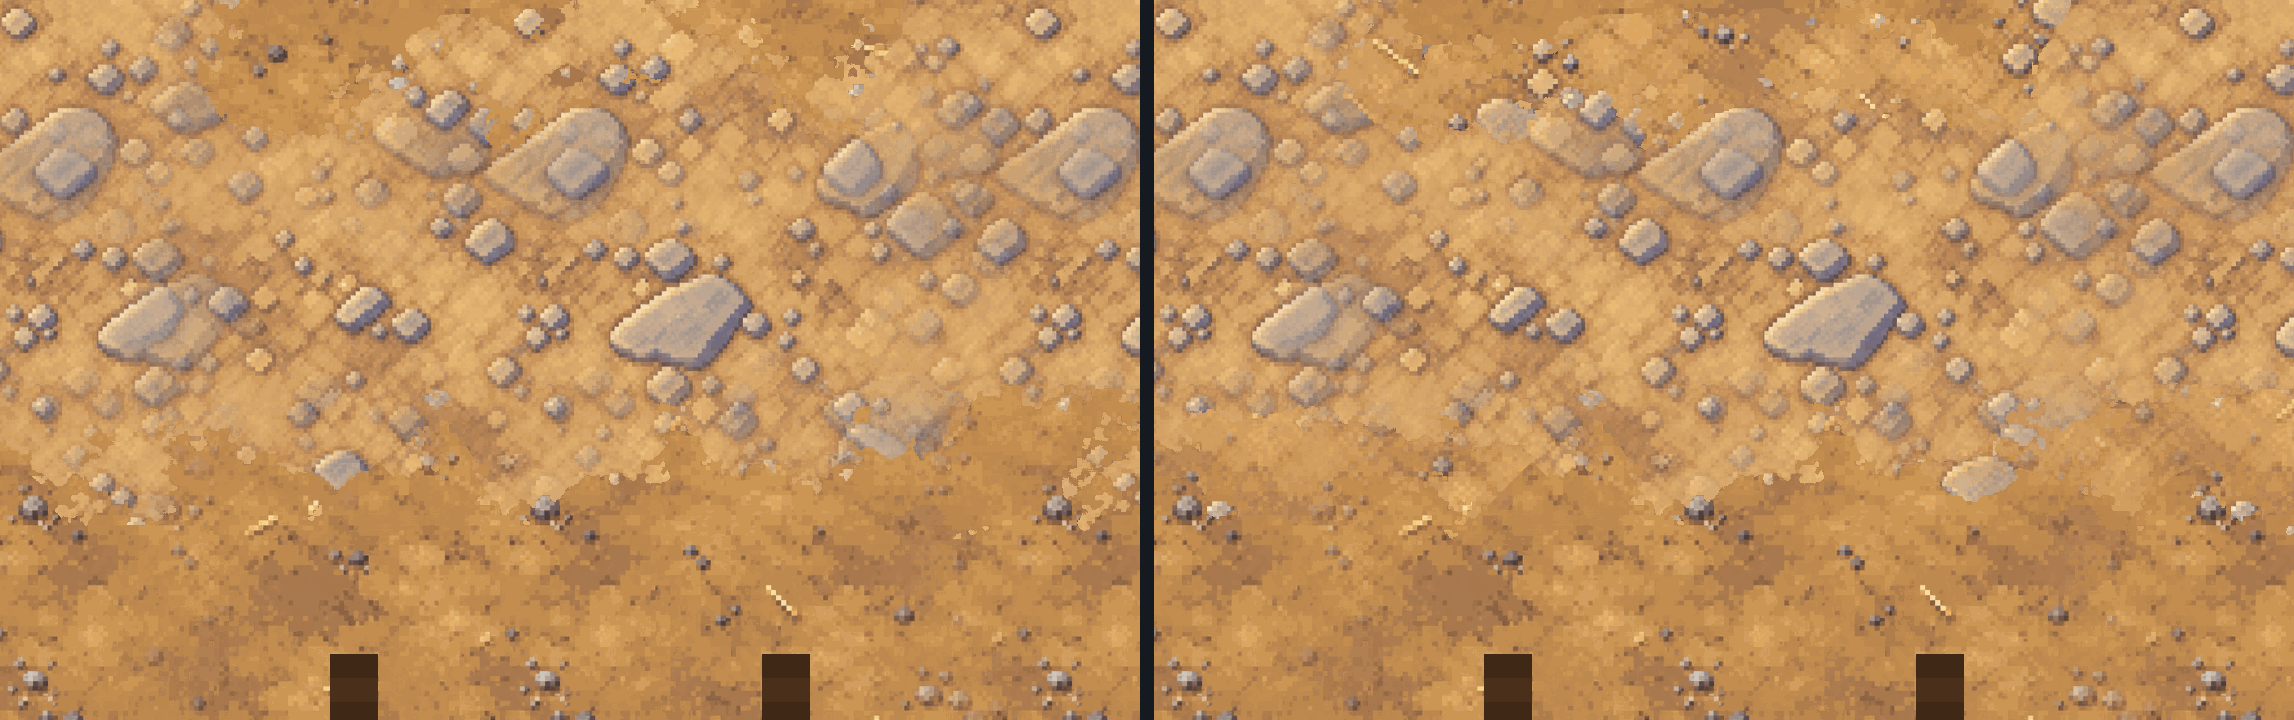
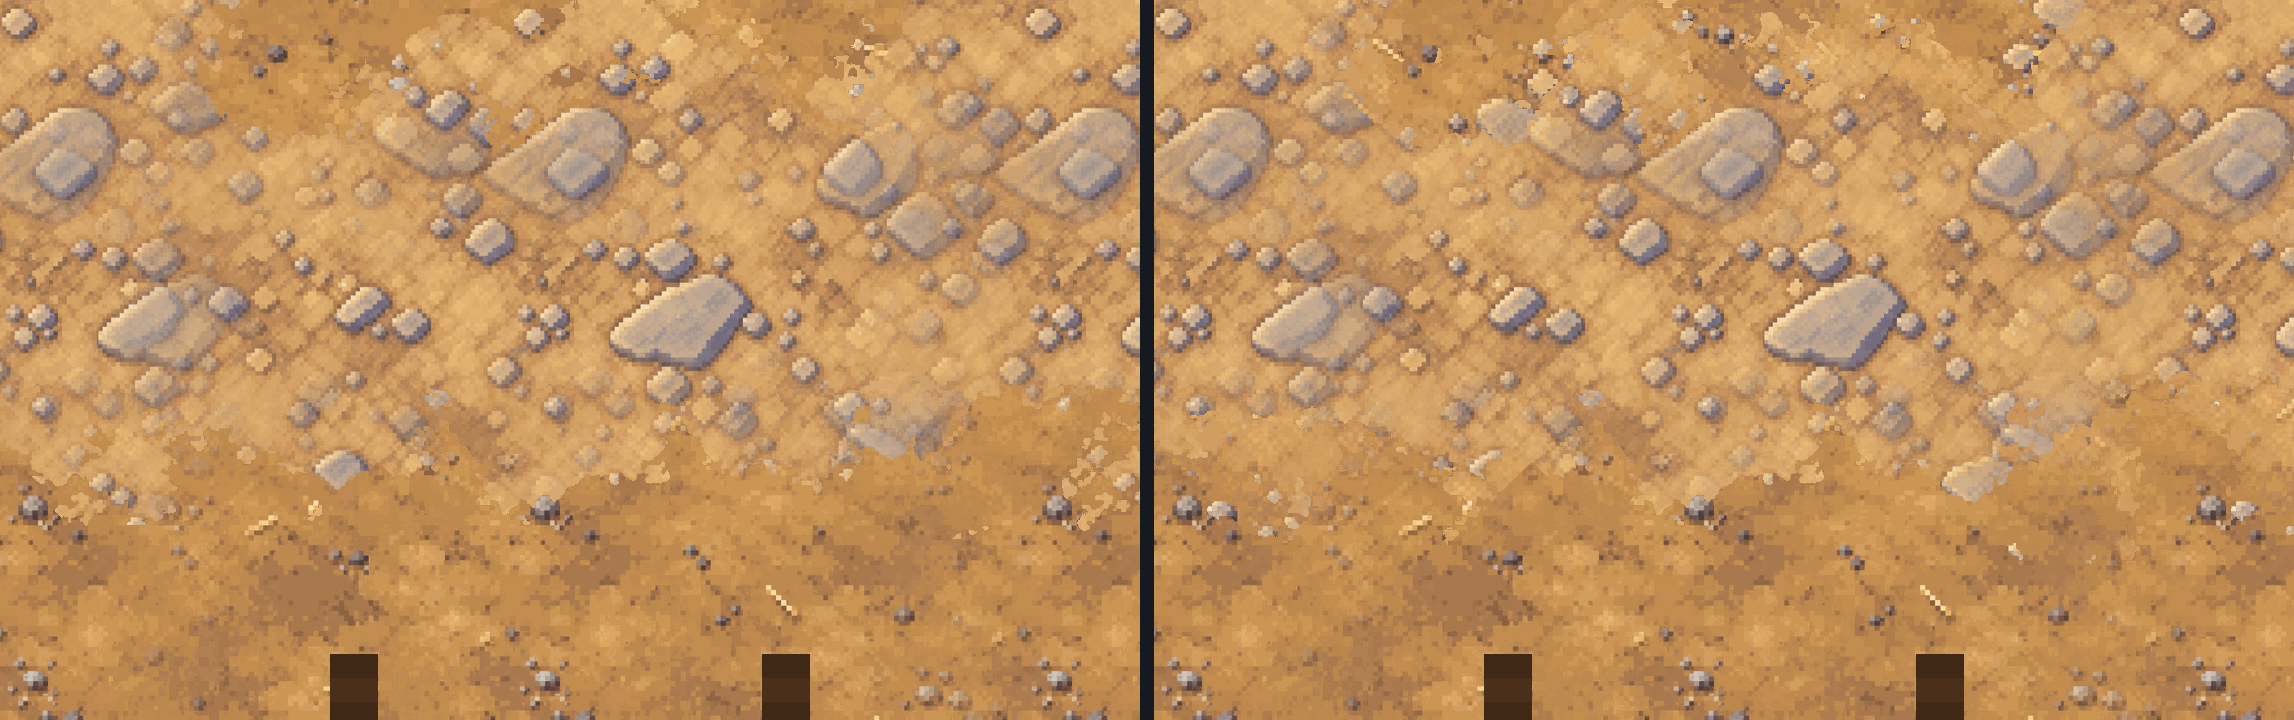
Blends turn in along ragged edges, not straight ones (v2.3.2952)
Owner, on the first preview: "Why does the top part of that patch look
correctly blended but not the bottom? I can see its edge ... Bottom looks
like it has a noticeable straight edge where it transitions."

The blend's two changes (upper -> blend, blend -> lower) each had half the
zone, on a ramp twice as steep as a plain mix's, so the patches moved each
change half as far, and where they would have moved it further the zone's
end stopped it: along the bottom of the Town Hall's plot the yards turned
into the blend beside the plan's straight cell edge. (The two changes also
swapped over at the line itself, a jump wherever the patches were strong.)

- ground.js: each change is now a whole plain mix, BLEND_OFF (0.4 of a
  zone) either side of the line, with the blend between; the zone of a
  pair with a blend is 1.4x wider (reachT, and the working margin when a
  blend is given); both changes judged everywhere, so nothing jumps.
  Heights at BLEND_HEIGHTS 0.45: at a plain mix's 0.7 nothing could be
  settled a whole art px at a time and a town piece took half as long
  again (6 pieces late in the trial); at 0.45 about a fifth longer.
- heightAt reads its five texels without making a function per call and
  wraps power-of-two pictures with a mask: the same answers to the bit.
- A test: at the bottom of the Town Hall's plot the yards' end wanders
  11 game px (a plain mix 12.6, v2.3.2951 6.8) and is straight for at
[…]

diff --git a/public/tools/world/core/ground.js b/public/tools/world/core/ground.js
@@ -204,11 +204,37 @@ const MIX_FAMILY = { earth: 1, sand: 1, ash: 1 };
    out to nothing at the zone's two sides -- in the same big patches, their
    rims shaped by all three pictures; every pixel is still one of the
    three.  Optional per pair: a pair without one mixes as before, to the
-   byte.  Measured on the owner's own pictures (desktop Chromium, laid the
-   way the game's worker lays them): a piece of town ground takes about
-   24 ms with or without it; a blend unpacked is 1 MB, only while you are
-   near its pair.  The cost is the pictures: 42 pairs of alike grounds
-   touch on the Wheel. */
+   byte.  A blend unpacked is 1 MB, only while you are near its pair; a
+   piece of ground its zone reaches takes about a fifth longer to lay
+   (v2.3.2952, below).  The cost that counts is the pictures: 42 pairs of
+   alike grounds touch on the Wheel. */
+/* v2.3.2952: the owner, on the first preview: "Why does the top part of
+   that patch look correctly blended but not the bottom? I can see its edge
+   … Bottom looks like it has a noticeable straight edge where it
+   transitions."  The blend's two changes (upper -> blend, blend -> lower)
+   each had HALF the zone, on a ramp twice as steep as a plain mix's: the
+   patches and the pictures' heights moved each change half as far, and
+   where they would have moved it further the zone's end stopped it -- so
+   along a stretch where the big patches were flat, the yards turned into
+   the blend along a line running beside the plan's straight cell edge.
+   (And the two changes swapped over at the line itself, a jump wherever
+   the patches were strong.)  Now each change is a whole plain mix -- the
+   same ramp, patches and room as any MIX edge -- set BLEND_OFF of a zone
+   either side of the line, with the blend between them: the zone of a pair
+   with a blend is that much wider (1 + BLEND_OFF), and the two changes
+   wander about as far as a plain mix's.  Measured at the owner's spot, on
+   stand-ins (tools/world/test-world-core.mjs): where the yards end wanders
+   11 game px against a plain mix's 12.6 (it was 6.8), and its straightest
+   stretch is 17 game px against a plain mix's 33 (it was 30).
+   The pictures' heights count a little less than at a plain mix's edge
+   (BLEND_HEIGHTS, not MIX_HEIGHTS' 0.7): at 0.7 hardly a pixel of the
+   wider zone could be settled an art px at a time and a town piece took
+   half as long again to lay; at 0.45 it takes about a fifth longer than
+   before, and the changes are as ragged. */
+const BLEND_OFF = 0.4;
+const BLEND_HEIGHTS = 0.45;
+/* the most a blend's zone reaches, in game px, for the margins below */
+const EDGE_MAX_BLEND_GAME = 2 + 1.35 * (1 + BLEND_OFF) * Math.max(...Object.values(MIX));
 export const BLEND_SEP = '__';
 /* one key for a pair of swatches, whichever way round they are named */
 export function blendKey(a, b) { return a < b ? `${a}${BLEND_SEP}${b}` : `${b}${BLEND_SEP}${a}`; }
@@ -794,6 +820,11 @@ function composeFine(plan, bp, mm, rect, tiles, opts, K) {
      can reach the worked-out area must lie in it) */
   const anyPieces = !!tiles && Object.values(tiles).some((t) => t && t.E);
   let EA = Math.max(Math.ceil(EDGE_MAX_GAME / GPA), anyPieces ? Math.ceil((EDGE_BIT + 1 + EDGE_PIECE_MAX / 2) / K) : 0) + 2;
+  /* (v2.3.2952: and a blend's wider zone, when one is given -- every piece
+     it can reach is, blendsUnder's margin being wider still) */
+  const blends = opts.blends || null;
+  const tileOfKey = (k) => { const t = blends ? (typeof blends.get === 'function' ? blends.get(k) : blends[k]) : null; return t && t.w ? t : null; };
+  if (blends && (typeof blends.keys === 'function' ? [...blends.keys()] : Object.keys(blends)).some(tileOfKey)) EA = Math.max(EA, Math.ceil(EDGE_MAX_BLEND_GAME / GPA) + 2);
   /* ...but only where an edge can be: most rectangles lie inside one ground
      or along crisp edges only, and need no more than the old margin */
   if (!edgesNear(bp, mm, X0 - E2 - EA, Y0 - E2 - EA, RW + 2 * (E2 + EA), RH + 2 * (E2 + EA), M)) EA = 0;
@@ -894,7 +925,7 @@ function composeFine(plan, bp, mm, rect, tiles, opts, K) {
       if (!r) continue;
       /* how far from `b` (thirds of an art px) this edge can still reach */
       const reachT = Math.ceil(((1.5 * r.reach + 1.35 * r.ragged) / GPA + 1.5) * 3);
-      const rr = { ...r, upQ: cat[a].id === r.up ? a : b, loQ: cat[a].id === r.up ? b : a, reachT, bl: -1 };
+      const rr = { ...r, upQ: cat[a].id === r.up ? a : b, loQ: cat[a].id === r.up ? b : a, reachT, bl: -1, lim: 1 };
       recipes.set(a * 256 + b, rr);
       recOf[a * NQ + b] = rr;
       list.push(b);
@@ -906,9 +937,7 @@ function composeFine(plan, bp, mm, rect, tiles, opts, K) {
      crumbs of it either -- numbered in the order of the pairs' keys, so two
      blends compare the same way in every chunk whatever else it holds. */
   const BL0 = NQ, blendTiles = [], blendLo = [], blendKeys = [];
-  const blends = opts.blends || null;
   if (blends) {
-    const tileOfKey = (k) => { const t = typeof blends.get === 'function' ? blends.get(k) : blends[k]; return t && t.w ? t : null; };
     const want = new Set();
     for (const rr of recipes.values()) if (rr.mix && tileOfKey(blendKey(cat[rr.upQ].id, cat[rr.loQ].id))) want.add(blendKey(cat[rr.upQ].id, cat[rr.loQ].id));
     for (const k of [...want].sort()) {
@@ -919,7 +948,12 @@ function composeFine(plan, bp, mm, rect, tiles, opts, K) {
     for (const rr of recipes.values()) {
       if (!rr.mix) continue;
       const n = blendKeys.indexOf(blendKey(cat[rr.upQ].id, cat[rr.loQ].id));
-      if (n >= 0) { rr.bl = BL0 + n; blendLo[n] = rr.loQ; }
+      if (n >= 0) {
+        rr.bl = BL0 + n; blendLo[n] = rr.loQ;
+        /* (v2.3.2952: its zone reaches 1 + BLEND_OFF of a plain mix's) */
+        rr.lim = 1 + BLEND_OFF;
+        rr.reachT = Math.ceil(((1.5 * rr.reach + 1.35 * rr.ragged * rr.lim) / GPA + 1.5) * 3);
+      }
     }
   }
   for (const list of partners.values()) for (const b of list) if (!dts.has(b)) { const D = chamfer34(pmat, PW, PH, b); dts.set(b, D); dtOf[b] = D; }
@@ -1038,7 +1072,7 @@ function composeFine(plan, bp, mm, rect, tiles, opts, K) {
         const dist = Math.max(0, d0 / 3 - 0.5) * GPA, s = a === r.loQ ? dist : -dist;
         const E = r.ragged * pVar[2 * p + 1], t = (s - r.reach * pVar[2 * p]) / E;
         const slack = (0.75 * GPA + 0.1) / E;
-        e = t - slack >= 1 ? r.loQ : t + slack <= -1 ? r.upQ : -1;
+        e = t - slack >= r.lim ? r.loQ : t + slack <= -r.lim ? r.upQ : -1;
         /* in the band, the patches may decide it for the whole art px: the
            pictures' part (0.7 x their heights' difference) is never more
            than 0.7 either way, and every pixel's patch lies between the
@@ -1052,19 +1086,16 @@ function composeFine(plan, bp, mm, rect, tiles, opts, K) {
             if (v < lo) lo = v;
             if (v > hi) hi = v;
           }
-          const hw = r.mix ? MIX_HEIGHTS : 0.7;
-          /* v2.3.2951: with a blend, the zone's two halves each decide
-             between two pictures, on the half's own ramp (edgeAt): the
-             upper or the blend where t < 0, the blend or the lower after */
+          const hw = r.bl >= 0 ? BLEND_HEIGHTS : r.mix ? MIX_HEIGHTS : 0.7;
+          /* v2.3.2952: with a blend (edgeAt), the upper ground where even
+             the lowest patch and heights clear its change (at t + BLEND_OFF);
+             the lower where even the highest fall short of its change (at
+             t - BLEND_OFF); the blend where neither change can be reached */
           if (r.bl >= 0) {
-            const tl = t - slack, th = t + slack;
-            if (th < 0) {
-              if (lo - (2 * th + 1) > hw) e = r.upQ;
-              else if (hi - (2 * tl + 1) <= -hw) e = r.bl;
-            } else if (tl >= 0) {
-              if (lo - (2 * th - 1) > hw) e = r.bl;
-              else if (hi - (2 * tl - 1) <= -hw) e = r.loQ;
-            } else if (hi - (2 * tl + 1) <= -hw && lo - (2 * th - 1) > hw) e = r.bl;
+            const C = BLEND_OFF;
+            if (lo - (t + slack + C) > hw) e = r.upQ;
+            else if (hi - (t - slack - C) <= -hw) e = r.loQ;
+            else if (hi - (t - slack + C) <= -hw && lo - (t + slack - C) > hw) e = r.bl;
           } else if (lo - (t + slack) > hw) e = r.upQ;
           else if (hi - (t - slack) <= -hw) e = r.loQ;
         }
@@ -1098,8 +1129,8 @@ function composeFine(plan, bp, mm, rect, tiles, opts, K) {
     /* the reach and the band vary along the edge, so it wanders */
     if (pB[p] < 0) slow(p);
     const t = (s - r.reach * pVar[2 * p]) / (r.ragged * pVar[2 * p + 1]);
-    if (t <= -1) return up;
-    if (t >= 1) return lo;
+    if (t <= -r.lim) return up;
+    if (t >= r.lim) return lo;
     /* patches a few game px across, so the upper ground comes in islands
        and the lower shows through in bays, thinning out across the band */
     let patch = 0.6 * ((patchAt(q00) * (1 - ux) + patchAt(q00 + 1) * ux) * (1 - uy) + (patchAt(q00 + PW) * (1 - ux) + patchAt(q00 + PW + 1) * ux) * uy);
@@ -1108,24 +1139,28 @@ function composeFine(plan, bp, mm, rect, tiles, opts, K) {
     if (r.mix) patch = 0.3 * patch + ((mixAt(q00) * (1 - ux) + mixAt(q00 + 1) * ux) * (1 - uy) + (mixAt(q00 + PW) * (1 - ux) + mixAt(q00 + PW + 1) * ux) * uy);
     /* (the pictures' part is hw x a difference of two heights in 0..1:
        where the patch alone clears it, it cannot change the answer) */
-    const hw = r.mix ? MIX_HEIGHTS : 0.7;
-    /* v2.3.2951: a pair with a BLEND picture: the zone's upper half goes
-       from the upper ground to the blend, its lower half from the blend to
-       the lower ground, each on its own ramp (2t + 1, 2t - 1) with the same
-       patches and the two pictures' heights -- so the blend is most at the
-       line and none is left at the zone's sides */
+    const hw = r.bl >= 0 ? BLEND_HEIGHTS : r.mix ? MIX_HEIGHTS : 0.7;
+    /* v2.3.2951: a pair with a BLEND picture: the zone goes from the upper
+       ground, through the blend, to the lower one.  v2.3.2952: as two whole
+       plain mixes, BLEND_OFF either side of the line, each with a plain
+       mix's ramp and patches (and the heights at BLEND_HEIGHTS): the upper
+       ground where the patch and the heights (upper against blend) clear
+       t + BLEND_OFF; else the lower where they (blend against lower) fall
+       to t - BLEND_OFF; else the blend.  Both changes are judged
+       everywhere, so nothing jumps at the line, and each wanders about as
+       far as a plain mix's. */
     if (r.bl >= 0) {
-      const bt = blendTiles[r.bl - BL0], useB = pB[p] === 1;
-      if (t < 0) {
-        const t1 = 2 * t + 1;
-        if (patch - t1 > hw) return up;
-        if (patch - t1 <= -hw) return r.bl;
-        return hw * (heightAt(tileFor(up, useB), up, aox, aoy, seed) - heightAt(bt, r.bl, aox, aoy, seed)) + patch > t1 ? up : r.bl;
+      const bt = blendTiles[r.bl - BL0], useB = pB[p] === 1, tu = t + BLEND_OFF, tl = t - BLEND_OFF;
+      let hb = -1;
+      if (patch - tu > hw) return up;
+      if (patch - tu > -hw) {
+        hb = heightAt(bt, r.bl, aox, aoy, seed);
+        if (hw * (heightAt(tileFor(up, useB), up, aox, aoy, seed) - hb) + patch > tu) return up;
       }
-      const t2 = 2 * t - 1;
-      if (patch - t2 > hw) return r.bl;
-      if (patch - t2 <= -hw) return lo;
-      return hw * (heightAt(bt, r.bl, aox, aoy, seed) - heightAt(tileFor(lo, useB), lo, aox, aoy, seed)) + patch > t2 ? r.bl : lo;
+      if (patch - tl <= -hw) return lo;
+      if (patch - tl > hw) return r.bl;
+      if (hb < 0) hb = heightAt(bt, r.bl, aox, aoy, seed);
+      return hw * (hb - heightAt(tileFor(lo, useB), lo, aox, aoy, seed)) + patch > tl ? r.bl : lo;
     }
     if (patch - t > hw) return up;
     if (patch - t <= -hw) return lo;
@@ -1491,19 +1526,36 @@ function heightLut(tile) {
   tile.__heights = lut;
   return lut;
 }
+/* (v2.3.2952: the five reads written out, not a small function made on
+   every call -- a blend's wider zone reads twice as many heights, and the
+   one made per call was most of their cost; the same sums in the same
+   order, so the same answers to the bit) */
 function heightAt(tile, q, aox, aoy, seed) {
   if (!tile) return 0.5 + 0.5 * valueNoise(aox / 5 + q * 3.7, aoy / 5 - q * 1.3, seed + 53);
-  const lut = heightLut(tile), T = tile.w;
-  const u = ((aox % T) + T) % T, v = ((aoy % T) + T) % T;
-  const at = (uu, vv) => {
-    const k = vv * T + uu;
-    if (tile.idx) return lut[tile.idx[k]];
-    const o = k * 4, d = tile.data;
-    return lut[(d[o] * 2 + d[o + 1] * 5 + d[o + 2]) >> 3];
-  };
-  const u1 = u + 2 < T ? u + 2 : u + 2 - T, u0 = u >= 2 ? u - 2 : u - 2 + T;
-  const v1 = v + 2 < T ? v + 2 : v + 2 - T, v0 = v >= 2 ? v - 2 : v - 2 + T;
-  const h = (2 * at(u, v) + at(u1, v) + at(u0, v) + at(u, v1) + at(u, v0)) / 6;
+  const lut = tile.__heights || heightLut(tile), T = tile.w;
+  /* (a picture a power of two across -- every swatch -- wraps with a mask:
+     the same numbers as the remainder, whole px, either side of zero) */
+  const m = (T & (T - 1)) === 0 ? T - 1 : -1;
+  const u = m >= 0 ? aox & m : ((aox % T) + T) % T, v = m >= 0 ? aoy & m : ((aoy % T) + T) % T;
+  const u1 = m >= 0 ? (u + 2) & m : u + 2 < T ? u + 2 : u + 2 - T, u0 = m >= 0 ? (u - 2) & m : u >= 2 ? u - 2 : u - 2 + T;
+  const v1 = m >= 0 ? (v + 2) & m : v + 2 < T ? v + 2 : v + 2 - T, v0 = m >= 0 ? (v - 2) & m : v >= 2 ? v - 2 : v - 2 + T;
+  const r = v * T, idx = tile.idx;
+  let h;
+  if (idx) h = (2 * lut[idx[r + u]] + lut[idx[r + u1]] + lut[idx[r + u0]] + lut[idx[v1 * T + u]] + lut[idx[v0 * T + u]]) / 6;
+  else {
+    const d = tile.data;
+    let o = (r + u) * 4;
+    const a0 = lut[(d[o] * 2 + d[o + 1] * 5 + d[o + 2]) >> 3];
+    o = (r + u1) * 4;
+    const a1 = lut[(d[o] * 2 + d[o + 1] * 5 + d[o + 2]) >> 3];
+    o = (r + u0) * 4;
+    const a2 = lut[(d[o] * 2 + d[o + 1] * 5 + d[o + 2]) >> 3];
+    o = (v1 * T + u) * 4;
+    const a3 = lut[(d[o] * 2 + d[o + 1] * 5 + d[o + 2]) >> 3];
+    o = (v0 * T + u) * 4;
+    const a4 = lut[(d[o] * 2 + d[o + 1] * 5 + d[o + 2]) >> 3];
+    h = (2 * a0 + a1 + a2 + a3 + a4) / 6;
+  }
   return Math.min(1, Math.max(0, 0.5 + (h - 0.5) * 1.5));
 }
 

diff --git a/public/tools/ground/index.html b/public/tools/ground/index.html
@@ -109,7 +109,7 @@
     <p class="sub">BroTown's ground, made from about fifty seamless swatches in HD pixel art and laid onto the Wheel by the game.</p>
     <!-- v2.3.2942: the version on the page, so the owner can tell a stale
          copy (a phone's cached page) from the latest without asking -->
-    <p class="mut" id="ver">Version v2.3.2951: blend pictures between alike grounds.</p>
+    <p class="mut" id="ver">Version v2.3.2952: blends turn in along ragged edges, not straight ones.</p>
     <p class="mut" id="status">Building the plan…</p>
   </header>
 

diff --git a/docs/WORLD-MAP-PIPELINE.md b/docs/WORLD-MAP-PIPELINE.md
@@ -821,18 +821,35 @@ Optional for every pair: a pair without one mixes exactly as before, to the
 byte.
 
 **How it is laid** (`public/tools/world/core/ground.js`, BLEND PICTURES).
-The zone runs from one ground, through the blend, to the other. Its upper
-half decides between the upper ground and the blend, its lower half between
-the blend and the lower ground, each on its own ramp across the half, with
-the same big patches and the pictures' own heights shaping their rims. So
-the blend is most at the line and none is left at the zone's sides (at the
-owner's spot, with stand-in pictures: 95% of the ground at the line, 71–77%
-12 game px either side, none 60 game px out). Every pixel is still one of
-the three pictures'. A blend is laid as a ground of its own, so the tidy-up
-leaves no crumbs of it; blends are numbered by their pairs' keys, so pieces
-laid apart still meet with no seam. `composeGround(..., { blends })` takes
-them by `blendKey(a, b)` (the two ids in order, joined by `__`), and
-`blendsUnder` names the ones a piece can use.
+The zone runs from one ground, through the blend, to the other, as **two
+whole plain mixes** (v2.3.2952): the upper ground gives way to the blend a
+little way (`BLEND_OFF`, 0.4 of a zone) to one side of the line, and the
+blend to the lower ground the same way to the other, each change with a
+plain mix's ramp, big patches and room, the pictures' heights shaping their
+rims (at `BLEND_HEIGHTS`, 0.45). The zone of a pair with a blend is that
+much wider (1.4 times). Both changes are judged everywhere, so nothing jumps
+at the line; the blend is most at the line and none is left at the zone's
+sides (at the owner's spot, with stand-in pictures: 64% of the ground at the
+line, about 40–50% 12 game px either side, none 60 game px out). Every pixel
+is still one of the three pictures'. A blend is laid as a ground of its own,
+so the tidy-up leaves no crumbs of it; blends are numbered by their pairs'
+keys, so pieces laid apart still meet with no seam. `composeGround(...,
+{ blends })` takes them by `blendKey(a, b)` (the two ids in order, joined by
+`__`), and `blendsUnder` names the ones a piece can use.
+
+> **v2.3.2952, the first fix.** Owner, on the first preview: *"Why does the
+> top part of that patch look correctly blended but not the bottom? I can
+> see its edge … Bottom looks like it has a noticeable straight edge where
+> it transitions."* In v2.3.2951 each of the two changes had half the zone,
+> on a ramp twice as steep, so the patches moved it half as far, and where
+> they would have moved it further the zone's end stopped it. Along the
+> bottom of the Town Hall's plot the yards therefore turned into the blend
+> along a line running beside the plan's straight cell edge. Now, where the
+> yards end wanders 11 game px against a plain mix's 12.6 (it was 6.8), and
+> its straightest stretch is 17 game px against a plain mix's 33 (it was
+> 30). A test holds it there.
+>
+> ![The studio's preview at the same spot: v2.3.2951 (left), the bottom of the dirt patch ending in a straight line; v2.3.2952 (right)](world/blend-edge-fix.png)
 
 **Where they come from.**
 
@@ -857,24 +874,32 @@ them by `blendKey(a, b)` (the two ids in order, joined by `__`), and
   them. The trial's readout says `blends  N made`.
 
 **Cost**, measured on the owner's own pictures, laid the way the game's
-worker lays them (desktop Chromium):
+worker lays them (desktop Chromium), since v2.3.2952:
 
 | | without the blend | with it |
 |---|---|---|
-| a piece of town ground | about 24 ms | about 24 ms (≈ 1 ms more on average) |
-| a piece on a long stage line (e.g. the dunes) | about 25 ms | no measurable difference |
+| a piece of town ground | about 23 ms | about 27 ms (a fifth more: the blend's zone is wider) |
+| pieces its zone does not reach | | no difference |
+| the Wheel trial, walking out of town and back | 44 ms a piece on average (v2.3.2951) | 50 ms, still no ground late on screen |
 | memory while near the pair | | 1 MB more (the town's busiest piece needs 13 pictures of the 16 kept) |
 | download, the first time near the pair | | one picture, about 0.9 MB |
 | unpacking it | | about 50 ms, once, in the worker |
 
+(With the heights at a plain mix's 0.7 instead of 0.45, the same fix cost
+half as much again a piece, and six pieces came on screen late in the
+trial: hardly any pixel of the wider zone could be settled a whole art px at
+a time.)
+
 The cost that counts is making the pictures: 42 pairs of alike grounds
 touch on the Wheel. Start with the town square.
 
-**Tests.** `node tools/world/test-world-core.mjs` (125): the key and its
+**Tests.** `node tools/world/test-world-core.mjs` (126): the key and its
 pair; square -> blend -> yards at the owner's spot, the blend most at the
 line and gone at the sides; every pixel one of the three pictures', `mat`
-naming only real swatches; halves the same as whole; and a blend for a pair
-that does not mix, or none, changing nothing. `node tools/qa/ground-studio.mjs`
+naming only real swatches; halves the same as whole; a blend for a pair
+that does not mix, or none, changing nothing; and (v2.3.2952) the yards
+turning into the blend along a ragged line at the bottom of the Town Hall's
+plot, wandering nearly as much as a plain mix's and never straight for long. `node tools/qa/ground-studio.mjs`
 (54): the card, the prompt, a blend in and on the palette without shifting
 it, laid in the preview to the pixel, marked to redo, through the zip and
 back, removed. `node tools/qa/mp/run.mjs wheeltrial` (31): a blend made in

diff --git a/CLAUDE.md b/CLAUDE.md
@@ -80,7 +80,11 @@ remnant to migrate server-side, not a mode to preserve.
   middle of the zone (`opts.blends[blendKey(a, b)]`, the studio's version
   `M` under the pair's key, `ground/<key>-M.png` + the manifest's `blends`,
   `blendPromptFor` attaching the two swatches and not the key): optional
-  per pair, a pair without one mixing exactly as before;
+  per pair, a pair without one mixing exactly as before; since v2.3.2952
+  laid as TWO WHOLE PLAIN MIXES either side of the blend (`BLEND_OFF`, the
+  zone 1.4x wider, heights at `BLEND_HEIGHTS` 0.45 to keep it cheap) --
+  v2.3.2951's halved changes ran into the zone's end and drew a straight
+  line beside the plan's cell edge, which the owner spotted;
   WORLD-MAP-PIPELINE "Blend pictures"),
   `docs/WORLD-BIBLE.md` (that world's story and look — through-lines,
   region/border briefs, the Main Street Brotown plot table, the style key,
